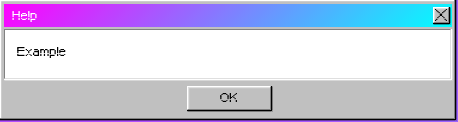
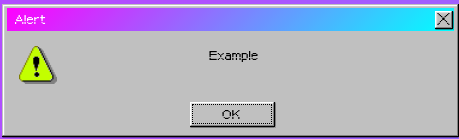
GitBook: [#20] add new dialog pages

diff --git a/dialog/notif.md b/dialog/notif.md
@@ -1,0 +1,80 @@
+---
+description: Displays a notification
+---
+
+# $notif
+
+### About
+
+`$notif` is used for displaying notifications. Notifications appear naturally when deleting files or modifying them at the bottom right corner.
+
+### Example
+
+{% tabs %}
+{% tab title="Screenshot" %}
+![](../.gitbook/assets/image.png)
+{% endtab %}
+
+{% tab title="Code" %}
+```javascript
+$notif('An example notification', 'Test')
+```
+{% endtab %}
+{% endtabs %}
+
+### Usage
+
+
+
+### Parameters
+
+|   |   |   |
+| - | - | - |
+|   |   |   |
+|   |   |   |
+|   |   |   |
+
+### Return
+
+```javascript
+function t(e, t) {
+    "string" == typeof e && ("string" == typeof t ? (e = {
+        title: e,
+        text: t
+    }, t = ) : e = {
+        text: e
+    });
+    var n = $extend({}, h, e);
+    t || (t = n.default);
+    var i, d = n.dest;
+    n.text = n.text || n.description || n.body || "";
+    var o = t.getAttribute("data-js-notif-id");
+    if (o) i = v[o];
+    else {
+        i = document.createElement("div"), d.appendChild(i), i.style.zIndex = 99999;
+        var a = t.getBoundingClientRect();
+        i.style.position = "fixed", i.style.bottom = window.innerHeight - ~~(a.top + a.height / 2) + "px", i.style.right = window.innerWidth - ~~(a.left + a.width / 2) + "px", t.setAttribute("data-js-notif-id", v.push(i) - 1)
+    }
+    var l = document.createElement("div"),
+        u = document.createElement("b"),
+        s = (a = document.createElement("p"), document.createElement("span"));
+    l.style.visibility = "hidden", l.className = "ui_notif", s.innerHTML = "&times;";
+    var c = 0;
+    n.title && (u.innerHTML = n.title, l.appendChild(u), c += n.title.length), a.innerHTML = n.text, c += n.text.length, l.appendChild(a), l.appendChild(s), !(s.onclick = function() {
+        p(l, !0)
+    }) !== n.delay && (l.onmouseover = function() {
+        clearTimeout(r)
+    }, l.onmouseout = function() {
+        f()
+    }), setTimeout(function() {
+        l.style.visibility = "visible", l.className = "ui_notif animated fadeIn"
+    }, 100), i.appendChild(l), c /= 5;
+    var r, m = n.speed || c / 3 * 1e3;
+
+    function f() {
+        r = setTimeout(function() {
+            p(l)
+        }, m + 2e3)
+    }!1 !== n.delay && f()
+}
+```

diff --git a/SUMMARY.md b/SUMMARY.md
@@ -7,6 +7,10 @@
 
 ## 💬 Dialogs <a href="dialog" id="dialog"></a>
 
+* [$notif](dialog/notif.md)
+* [$confirm](dialog/confirm.md)
+* [$prompt](dialog/prompt.md)
+* [$confirm](dialog/confirm-1.md)
 * [$window](dialog/window/README.md)
   * [instances](dialog/window/instances.md)
   * [current](dialog/window/current.md)

diff --git a/dialog/alert/README.md b/dialog/alert/README.md
@@ -6,7 +6,7 @@ description: Shows an alert window that the user can close
 
 ### Examples
 
-![](../../.gitbook/assets/image.png)
+![](<../../.gitbook/assets/image (1).png>)
 
 Shows an alert window that the user can close
 

diff --git a/dialog/alert/help.md b/dialog/alert/help.md
@@ -6,7 +6,7 @@ description: Shows an alert window against a white background that the user can 
 
 ### Examples
 
-![](<../../.gitbook/assets/image (1).png>)
+![](<../../.gitbook/assets/image (1) (1).png>)
 
 ### Usage
 

diff --git a/dialog/confirm-1.md b/dialog/confirm-1.md
@@ -1,0 +1,2 @@
+# $confirm
+

diff --git a/dialog/confirm.md b/dialog/confirm.md
@@ -1,0 +1,2 @@
+# $confirm
+

diff --git a/dialog/prompt.md b/dialog/prompt.md
@@ -1,0 +1,2 @@
+# $prompt
+

diff --git a/intro/github.md b/intro/github.md
@@ -29,7 +29,7 @@ Screenshot examples and code examples are allowed to be contributed as tabs: Her
 
 {% tabs %}
 {% tab title="Image" %}
-![Screenshot example](../.gitbook/assets/image.png)
+![Screenshot example](<../.gitbook/assets/image (1).png>)
 {% endtab %}
 
 {% tab title="Code" %}